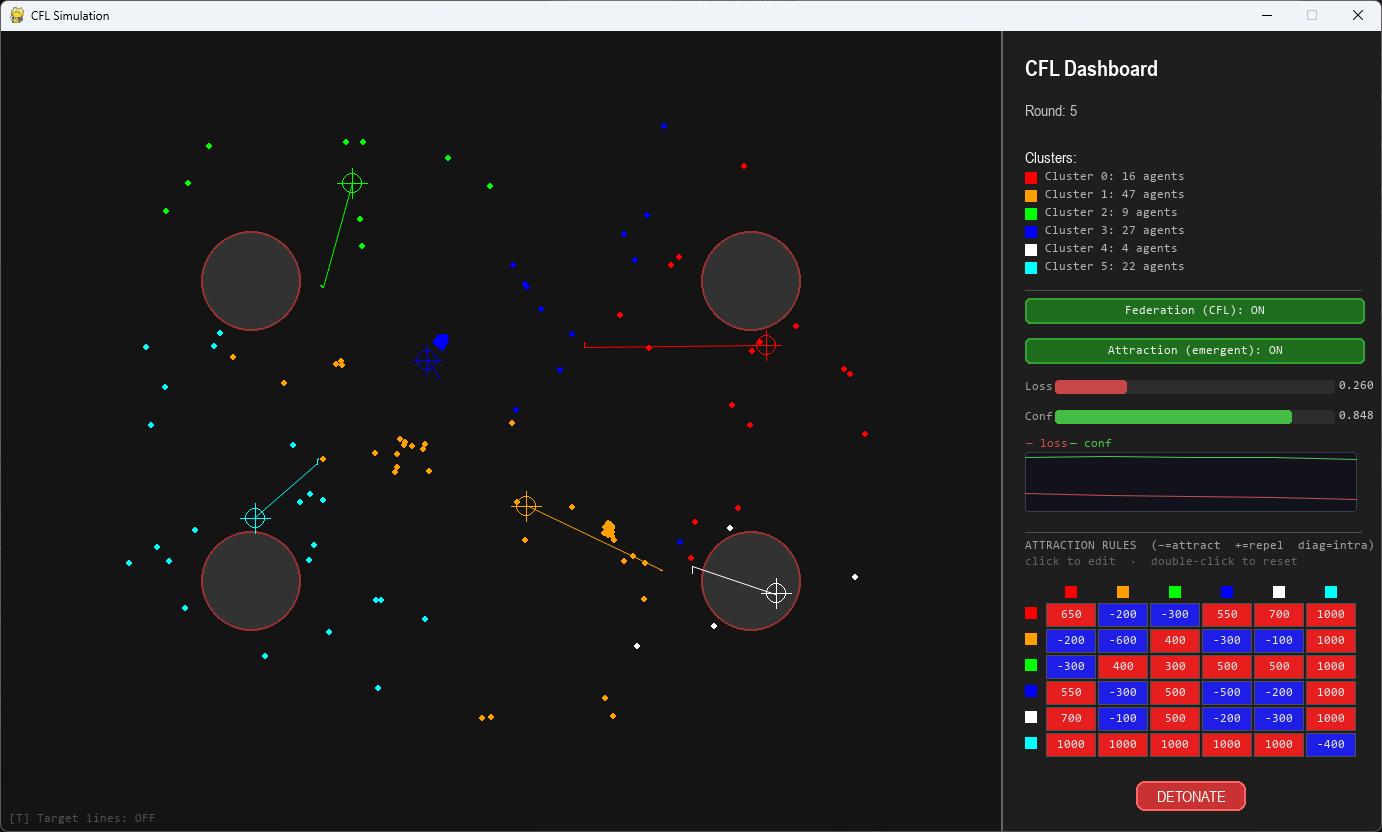
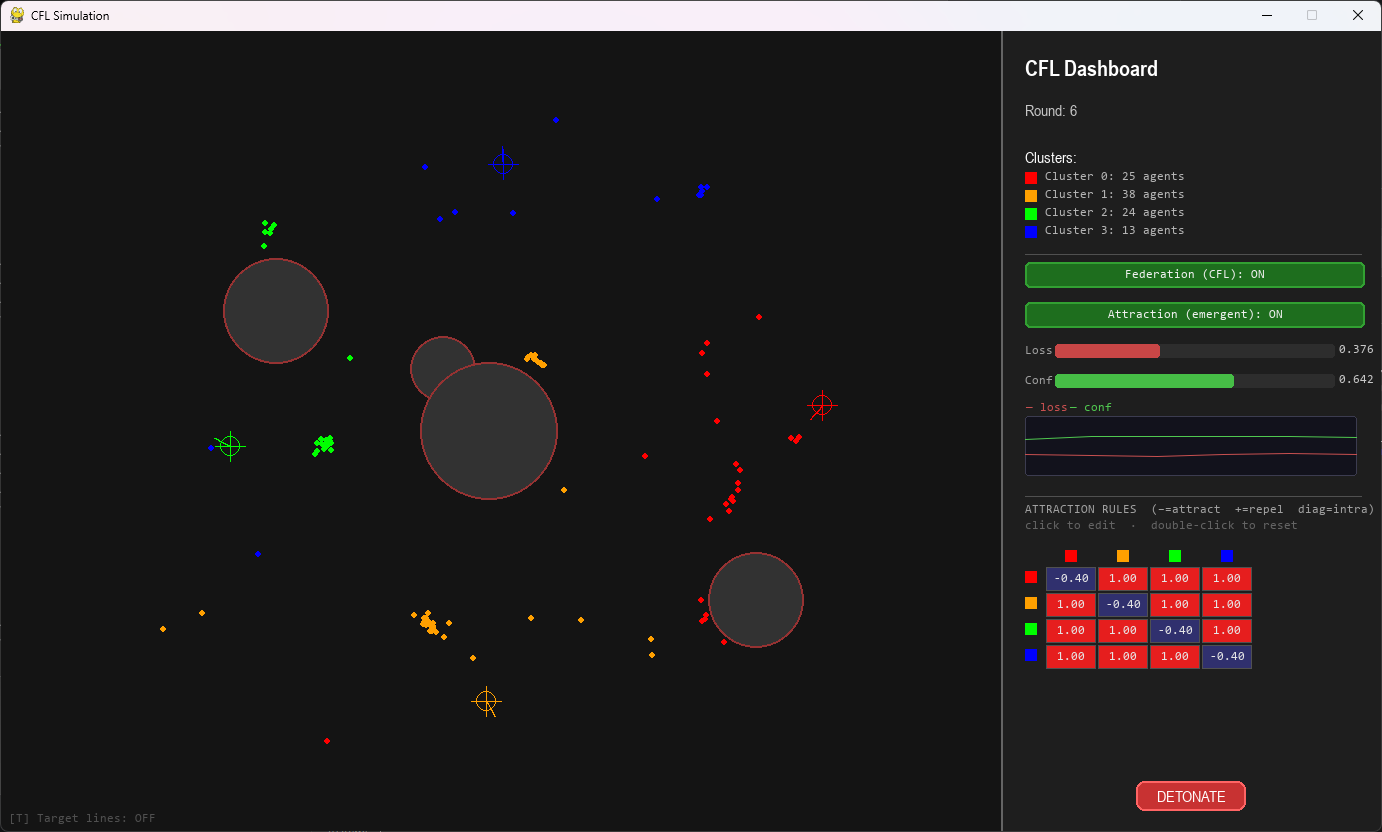
Document simulation screenshots in README

diff --git a/README.md b/README.md
@@ -91,7 +91,7 @@ sam bira grozd čiji mu emitirani model daje najmanji gubitak.
 **(EN)** IFCA replaces a fixed assignment with an **argmin-loss assignment**: every
 round, each cluster broadcasts an aggregated model θ_k; each particle evaluates
 *every* θ_k against its own situation and joins the cluster with the lowest loss
-([`run_cfl_round`](https://github.com/andrijakrklec/emergent-garden/blob/HEAD/src/particle.py)). The number of clusters is not
+([`run_cfl_round`](https://github.com/andrijakrklec/emergent-garden/blob/HEAD/src/cfl.py)). The number of clusters is not
 fixed — clusters **split** when their members disagree and **merge** when they
 become redundant (`MIN_CLUSTERS = 2`, `MAX_CLUSTERS = 6`).
 
@@ -105,7 +105,7 @@ privlačenja/odbijanja, izbjegavanja prepreka i federalne dinamike učenja.
 
 **(EN)** The emergent layer descends from the original *Emergent Garden* particle
 sandbox (see [Credits](#credits--license)). Simple per-pair attraction/repulsion
-rules ([`apply_physics_rules`](https://github.com/andrijakrklec/emergent-garden/blob/HEAD/src/particle.py)) produce flocking,
+rules (`apply_physics_rules` in [`game.py`](https://github.com/andrijakrklec/emergent-garden/blob/HEAD/src/game.py), built on the pure [`physics.py`](https://github.com/andrijakrklec/emergent-garden/blob/HEAD/src/physics.py) force library) produce flocking,
 splitting, and reorganization that no single rule encodes.
 
 ---
@@ -136,13 +136,14 @@ The cognitive domain runs two processes:
 - **Local training** — `local_train()` ([`particle.py`](https://github.com/andrijakrklec/emergent-garden/blob/HEAD/src/particle.py)): each
   agent nudges its heading toward its (bias-corrupted) ideal direction, blended
   with obstacle avoidance, and updates confidence/pressure/loss.
-- **Federation** — `run_cfl_round()`: the IFCA round described
+- **Federation** — `run_cfl_round()` ([`cfl.py`](https://github.com/andrijakrklec/emergent-garden/blob/HEAD/src/cfl.py)): the IFCA round described
   [below](#mehanizam-grozdne-agregacije--cluster-aggregation-ifca).
 
 ### Fizikalna domena / Physical domain
 
-`apply_physics_rules()` ([`particle.py`](https://github.com/andrijakrklec/emergent-garden/blob/HEAD/src/particle.py)) integrates
-motion each physics tick:
+`apply_physics_rules()` ([`game.py`](https://github.com/andrijakrklec/emergent-garden/blob/HEAD/src/game.py)) integrates
+motion each physics tick, delegating the force math to the pure
+[`physics.py`](https://github.com/andrijakrklec/emergent-garden/blob/HEAD/src/physics.py) library:
 
 - **Inter-agent forces** — attraction/repulsion governed by cluster membership and
   the per-pair **rules matrix** (intra-cluster = diagonal, inter-cluster = off-diagonal).
@@ -153,11 +154,10 @@ motion each physics tick:
 
 ### Threading model
 
-The cognitive/physical simulation and the GUI run on **separate threads**
-([`game.py`](https://github.com/andrijakrklec/emergent-garden/blob/HEAD/src/game.py)):
+The cognitive/physical simulation and the GUI run on **separate threads**:
 
-- `SimulationThread` (daemon) owns *all* state and steps physics at `PHYSICS_HZ = 60`.
-- `Game` (main thread) renders at `FRAME_RATE = 60` by reading an immutable
+- `SimulationThread` (daemon, [`game.py`](https://github.com/andrijakrklec/emergent-garden/blob/HEAD/src/game.py)) owns *all* state and steps physics at `PHYSICS_HZ = 60`.
+- `Game` (main thread, [`gui.py`](https://github.com/andrijakrklec/emergent-garden/blob/HEAD/src/gui.py)) renders at `FRAME_RATE = 60` by reading an immutable
   `SimSnapshot` under a lock, and sends user actions back through a `queue.Queue`.
 
 This keeps the physics loop deterministic and decoupled from rendering/input latency.
@@ -186,7 +186,7 @@ The two domains are not independent — they form a closed loop:
 **Cognitive → Physical** (the model drives motion):
 - The learned heading `model[0:2]`, scaled by `confidence` (`model[2]`) and
   amplified by `obstacle_pressure`, becomes a **behavioral force**
-  (`BEHAVIORAL_FORCE = 30.0`, in [`particle.py`](https://github.com/andrijakrklec/emergent-garden/blob/HEAD/src/particle.py)).
+  (`BEHAVIORAL_FORCE = 30.0`, a [`cfl_params.py`](https://github.com/andrijakrklec/emergent-garden/blob/HEAD/src/cfl_params.py) tunable applied in [`game.py`](https://github.com/andrijakrklec/emergent-garden/blob/HEAD/src/game.py)).
 - An agent's `cluster_id` selects which **attraction/repulsion rule** applies to
   every pairwise interaction.
 
@@ -207,8 +207,8 @@ measures.
 
 ## Mehanizam grozdne agregacije / Cluster aggregation (IFCA)
 
-A federation round fires every `cluster_update_interval = 200` physics steps
-(≈3.3 s). `run_cfl_round()` ([`particle.py`](https://github.com/andrijakrklec/emergent-garden/blob/HEAD/src/particle.py)) performs:
+A federation round fires every `cluster_update_interval` physics steps.
+`run_cfl_round()` ([`cfl.py`](https://github.com/andrijakrklec/emergent-garden/blob/HEAD/src/cfl.py)) performs:
 
 1. **Broadcast** — build each cluster's model θ_k as a **confidence-weighted mean**
    of its members (`_compute_cluster_models`). Empty clusters get a
@@ -217,7 +217,7 @@ A federation round fires every `cluster_update_interval = 200` physics steps
    (geometric distance + directional alignment to that cluster's target) and joins
    the lowest-loss cluster.
 3. **Hysteresis** — an agent only switches if the new cluster is at least
-   `MIGRATION_HYSTERESIS = 0.5` (50%) better, preventing flip-flopping between
+   `MIGRATION_HYSTERESIS = 0.6` (60%) better, preventing flip-flopping between
    near-equivalent clusters.
 4. **Aggregation with age-adaptive blend** — members blend toward θ_k. Newborn
    clusters keep more local state (`BLEND_LOCAL_NEW = 0.75`) and mature over
@@ -234,6 +234,10 @@ A federation round fires every `cluster_update_interval = 200` physics steps
      (`SPLIT_LOSS_THRESHOLD = 0.30`), 2-means on member heading vectors carves off a
      new cluster.
 
+All thresholds and weights above are defined in
+[`cfl_params.py`](https://github.com/andrijakrklec/emergent-garden/blob/HEAD/src/cfl_params.py)
+and read through getter functions (e.g. `get_split_loss_threshold()`).
+
 > **Why IFCA and not plain KMeans?** Earlier versions used KMeans on the identity
 > vectors (see commit `changed kmeans to ifca for better clustering`). Under IFCA,
 > assignment is driven by *predictive loss under each broadcast model* rather than
@@ -248,10 +252,15 @@ A federation round fires every `cluster_update_interval = 200` physics steps
 | File | Responsibility |
 |------|----------------|
 | [`main.py`](https://github.com/andrijakrklec/emergent-garden/blob/HEAD/main.py) | Entry point. Parses `--config`, constructs `Game`, runs the loop. |
-| [`src/game.py`](https://github.com/andrijakrklec/emergent-garden/blob/HEAD/src/game.py) | `SimulationThread` (all state + physics) and `Game` (pygame GUI/render/input). Config loading and merging. |
-| [`src/particle.py`](https://github.com/andrijakrklec/emergent-garden/blob/HEAD/src/particle.py) | `Particle` model, `local_train`, `update_peer_alignment`, `apply_physics_rules`, and the IFCA round `run_cfl_round`. |
+| [`src/gui.py`](https://github.com/andrijakrklec/emergent-garden/blob/HEAD/src/gui.py) | `Game` — the pygame front-end: renders `SimSnapshot`s and forwards input. |
+| [`src/game.py`](https://github.com/andrijakrklec/emergent-garden/blob/HEAD/src/game.py) | `SimulationThread` (all sim state + the physics/federation step loop), `SimSnapshot`, the `apply_physics_rules` tick, and config loading/merging. |
+| [`src/particle.py`](https://github.com/andrijakrklec/emergent-garden/blob/HEAD/src/particle.py) | `Particle` model, `local_train` (cognitive update), and `update_peer_alignment`. |
+| [`src/cfl.py`](https://github.com/andrijakrklec/emergent-garden/blob/HEAD/src/cfl.py) | IFCA federation: `run_cfl_round` (+ merge/split helpers), `compute_cluster_stats`, and `instantiate_group`. |
+| [`src/cfl_params.py`](https://github.com/andrijakrklec/emergent-garden/blob/HEAD/src/cfl_params.py) | CFL/IFCA tunables (split/merge thresholds, blend schedule, bias, hysteresis) exposed via getter functions. |
+| [`src/physics.py`](https://github.com/andrijakrklec/emergent-garden/blob/HEAD/src/physics.py) | Pure, dependency-free force library: gravity, emergency repulsion, attraction/repulsion coefficient, obstacle push, velocity integration. |
+| [`src/constants.py`](https://github.com/andrijakrklec/emergent-garden/blob/HEAD/src/constants.py) | Simulation dimensions, frame rate, particle/physics constants, colors, `CLUSTER_PALETTE`. |
 | [`src/utils/sim_logger.py`](https://github.com/andrijakrklec/emergent-garden/blob/HEAD/src/utils/sim_logger.py) | `SimLogger` — per-round CSV/JSONL logging and matplotlib plot generation. |
-| [`src/constants.py`](https://github.com/andrijakrklec/emergent-garden/blob/HEAD/src/constants.py) | Simulation dimensions, frame rate, particle/physics constants, colors. |
+| [`src/utils/rounds_plotter.py`](https://github.com/andrijakrklec/emergent-garden/blob/HEAD/src/utils/rounds_plotter.py) | Standalone post-hoc re-plotter for a run's `rounds.csv` (`python -m src.utils.rounds_plotter`). |
 | [`tools/run_all.py`](https://github.com/andrijakrklec/emergent-garden/blob/HEAD/tools/run_all.py) | Launches the four ablation configs as parallel processes. |
 | [`config.json`](https://github.com/andrijakrklec/emergent-garden/blob/HEAD/config.json) | Master config (forces, clusters, obstacles, toggles, rules). |
 | [`configs/`](https://github.com/andrijakrklec/emergent-garden/tree/HEAD/configs) | Per-experiment overrides; only list keys that differ from master. |
@@ -260,7 +269,7 @@ A federation round fires every `cluster_update_interval = 200` physics steps
 
 - **Physics step**: `SimulationThread._step()` ([`game.py`](https://github.com/andrijakrklec/emergent-garden/blob/HEAD/src/game.py)) — drifts
   targets, runs local training, fires federation rounds, applies physics, samples trails.
-- **Federation round**: `run_cfl_round()` ([`particle.py`](https://github.com/andrijakrklec/emergent-garden/blob/HEAD/src/particle.py)).
+- **Federation round**: `run_cfl_round()` ([`cfl.py`](https://github.com/andrijakrklec/emergent-garden/blob/HEAD/src/cfl.py)).
 - **Snapshot for GUI**: `SimulationThread._build_snapshot()` → immutable
   `SimSnapshot` dataclass.
 
@@ -375,6 +384,28 @@ file in [`configs/emergent/`](https://github.com/andrijakrklec/emergent-garden/t
 | `orbits`  | 4 | Central core (cluster 0) attracts satellites that repel each other — ring / orbit. |
 | `gas`     | 4 | Clusters self-repel and repel each other — particles disperse like a gas. |
 | `chains`  | 5 | Only adjacent clusters attract (0-1-2-3-4) — linked strands. |
+| `scramble`| 5 | Universal strong repulsion — every agent repels every other, so the swarm scatters and can't reach its anchors (worst-case ablation stress test). |
+
+![default preset](docs/images/cfl_off__emergent_on__preset_default_thumb.png)<br>
+**default** — balanced cohesion / spread
+
+![cells preset](docs/images/cfl_on__emergent_on__preset_cells_thumb.png)<br>
+**cells** — tight cohesive blobs that strongly repel each other
+
+![swarm preset](docs/images/cfl_on__emergent_on__preset_swarm_thumb.png)<br>
+**swarm** — one drifting super-swarm
+
+![orbits preset](docs/images/cfl_on__emergent_on__preset_orbits_thumb.png)<br>
+**orbits** — central core attracts satellites that repel each other
+
+![gas preset](docs/images/cfl_off__emergent_on__preset_gas_thumb.png)<br>
+**gas** — every cluster repels; particles disperse
+
+![chains preset](docs/images/cfl_off__emergent_on__preset_chains_thumb.png)<br>
+**chains** — only adjacent clusters attract (0-1-2-3-4)
+
+![scramble preset](docs/images/cfl_on__emergent_on__preset_scramble_thumb.png)<br>
+**scramble** — universal repulsion; the swarm can't reach its anchors
 
 Add your own by dropping a `configs/emergent/<name>.json` with the same fields and
 setting `emergent_preset` to `<name>`.
@@ -395,6 +426,18 @@ The two coupling directions are toggled independently to isolate their effects:
 `run_all.py` launches all four simultaneously so the runs are directly comparable.
 The metrics tracked **every round regardless of mode** (so toggling is visible) are
 average loss and confidence (tracked each round in `SimulationThread._step`).
+
+![CFL off, emergent off](docs/images/cfl_off__emergent_off_thumb.png)<br>
+**CFL off · emergent off** — no coupling; agents just drift to personal targets
+
+![CFL on, emergent off](docs/images/cfl_on__emergent_off_thumb.png)<br>
+**CFL on · emergent off** — federation only; clusters converge on their anchors
+
+![CFL off, emergent on](docs/images/cfl_off__emergent_on__preset_default_thumb.png)<br>
+**CFL off · emergent on** — physics only; spatial forces, no federation
+
+![CFL on, emergent on](docs/images/cfl_on__emergent_on__preset_cells_thumb.png)<br>
+**CFL on · emergent on** — full coupling; federated clusters + emergent physics
 
 ### Logged artifacts
 
@@ -450,23 +493,32 @@ loss/confidence bars, and a rolling sparkline of loss and confidence.
 
 ```
 emergent-garden/
-├── main.py                 # entry point (--config)
-├── config.json             # master configuration
+├── main.py                      # entry point (--config)
+├── config.json                  # master configuration
 ├── requirements.txt
-├── Doxyfile                # Doxygen API-doc configuration
-├── configs/                # per-experiment overrides
+├── Doxyfile                     # Doxygen API-doc configuration
+├── configs/                     # per-experiment overrides
 │   ├── cfl_on__emergent_on.json
 │   ├── cfl_on__emergent_off.json
 │   ├── cfl_off__emergent_on.json
-│   └── cfl_off__emergent_off.json
+│   ├── cfl_off__emergent_off.json
+│   └── emergent/                # named behaviour presets (default, cells, …)
 ├── src/
-│   ├── game.py             # SimulationThread + Game (GUI), config merge
-│   ├── particle.py         # Particle model, local_train, IFCA, physics
-│   ├── utils/sim_logger.py # CSV/JSONL logging + matplotlib plots
-│   └── constants.py        # dimensions, rates, physics constants, colors
-├── tools/run_all.py        # launch the 2×2 ablation in parallel
-├── docs/images/            # screenshots
-└── logs/                   # per-run output (CSV + plots), created at runtime
+│   ├── game.py                  # SimulationThread engine + SimSnapshot + apply_physics_rules
+│   ├── gui.py                   # Game — pygame render/input front-end
+│   ├── particle.py              # Particle model, local_train, update_peer_alignment
+│   ├── cfl.py                   # IFCA round, clustering, instantiate_group
+│   ├── cfl_params.py            # CFL/IFCA tunables (getters)
+│   ├── physics.py               # pure force library
+│   ├── constants.py             # dimensions, rates, physics constants, colors, palette
+│   └── utils/
+│       ├── sim_logger.py        # CSV/JSONL logging + matplotlib plots
+│       └── rounds_plotter.py    # standalone rounds.csv re-plotter
+├── tools/
+│   ├── run_all.py               # launch the 2×2 ablation in parallel
+│   └── rounds_plotter_form.html # command builder for rounds_plotter
+├── docs/images/                 # screenshots
+└── logs/                        # per-run output (CSV + plots); gitignored
 ```
 
 ---
